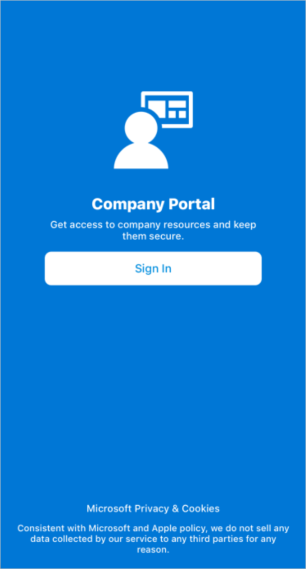
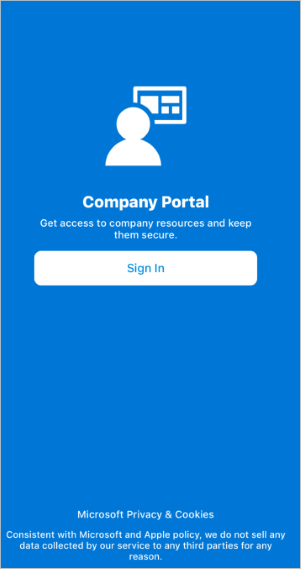
Added lightbox so users can zoom in on disclaimer

diff --git a/intune-user-help/sign-in-to-the-company-portal.md b/intune-user-help/sign-in-to-the-company-portal.md
@@ -7,7 +7,7 @@ keywords:
 author: lenewsad
 ms.author: lanewsad
 manager: dougeby
-ms.date: 09/12/2019
+ms.date: 09/18/2019
 ms.topic: article
 ms.prod:
 ms.service: microsoft-intune
@@ -42,7 +42,7 @@ The following steps show screenshots from the Company Portal for iOS.
 
 1. Open the app on your device and tap **Sign In**.  
 
-   ![The Company Portal sign in page, with an icon of a person in front of a graphical representation of a website. Below that is the text "Get access to company resources and keep them secure," and the "Sign in" button. A link at the bottom leads to Microsoft Privacy and Cookies information.](/intune-user-help/media/intune-ios-cp-signin-1908.png)  
+   [ ![The Company Portal sign in page, with an icon of a person in front of a graphical representation of a website. Below that is the text "Get access to company resources and keep them secure," and the "Sign in" button. A link at the bottom leads to Microsoft Privacy and Cookies information.](/intune-user-help/media/intune-ios-cp-signin-1908.png) ](/intune-user-help/media/intune-ios-cp-signin-1908.png#lightbox)
 
 
 
